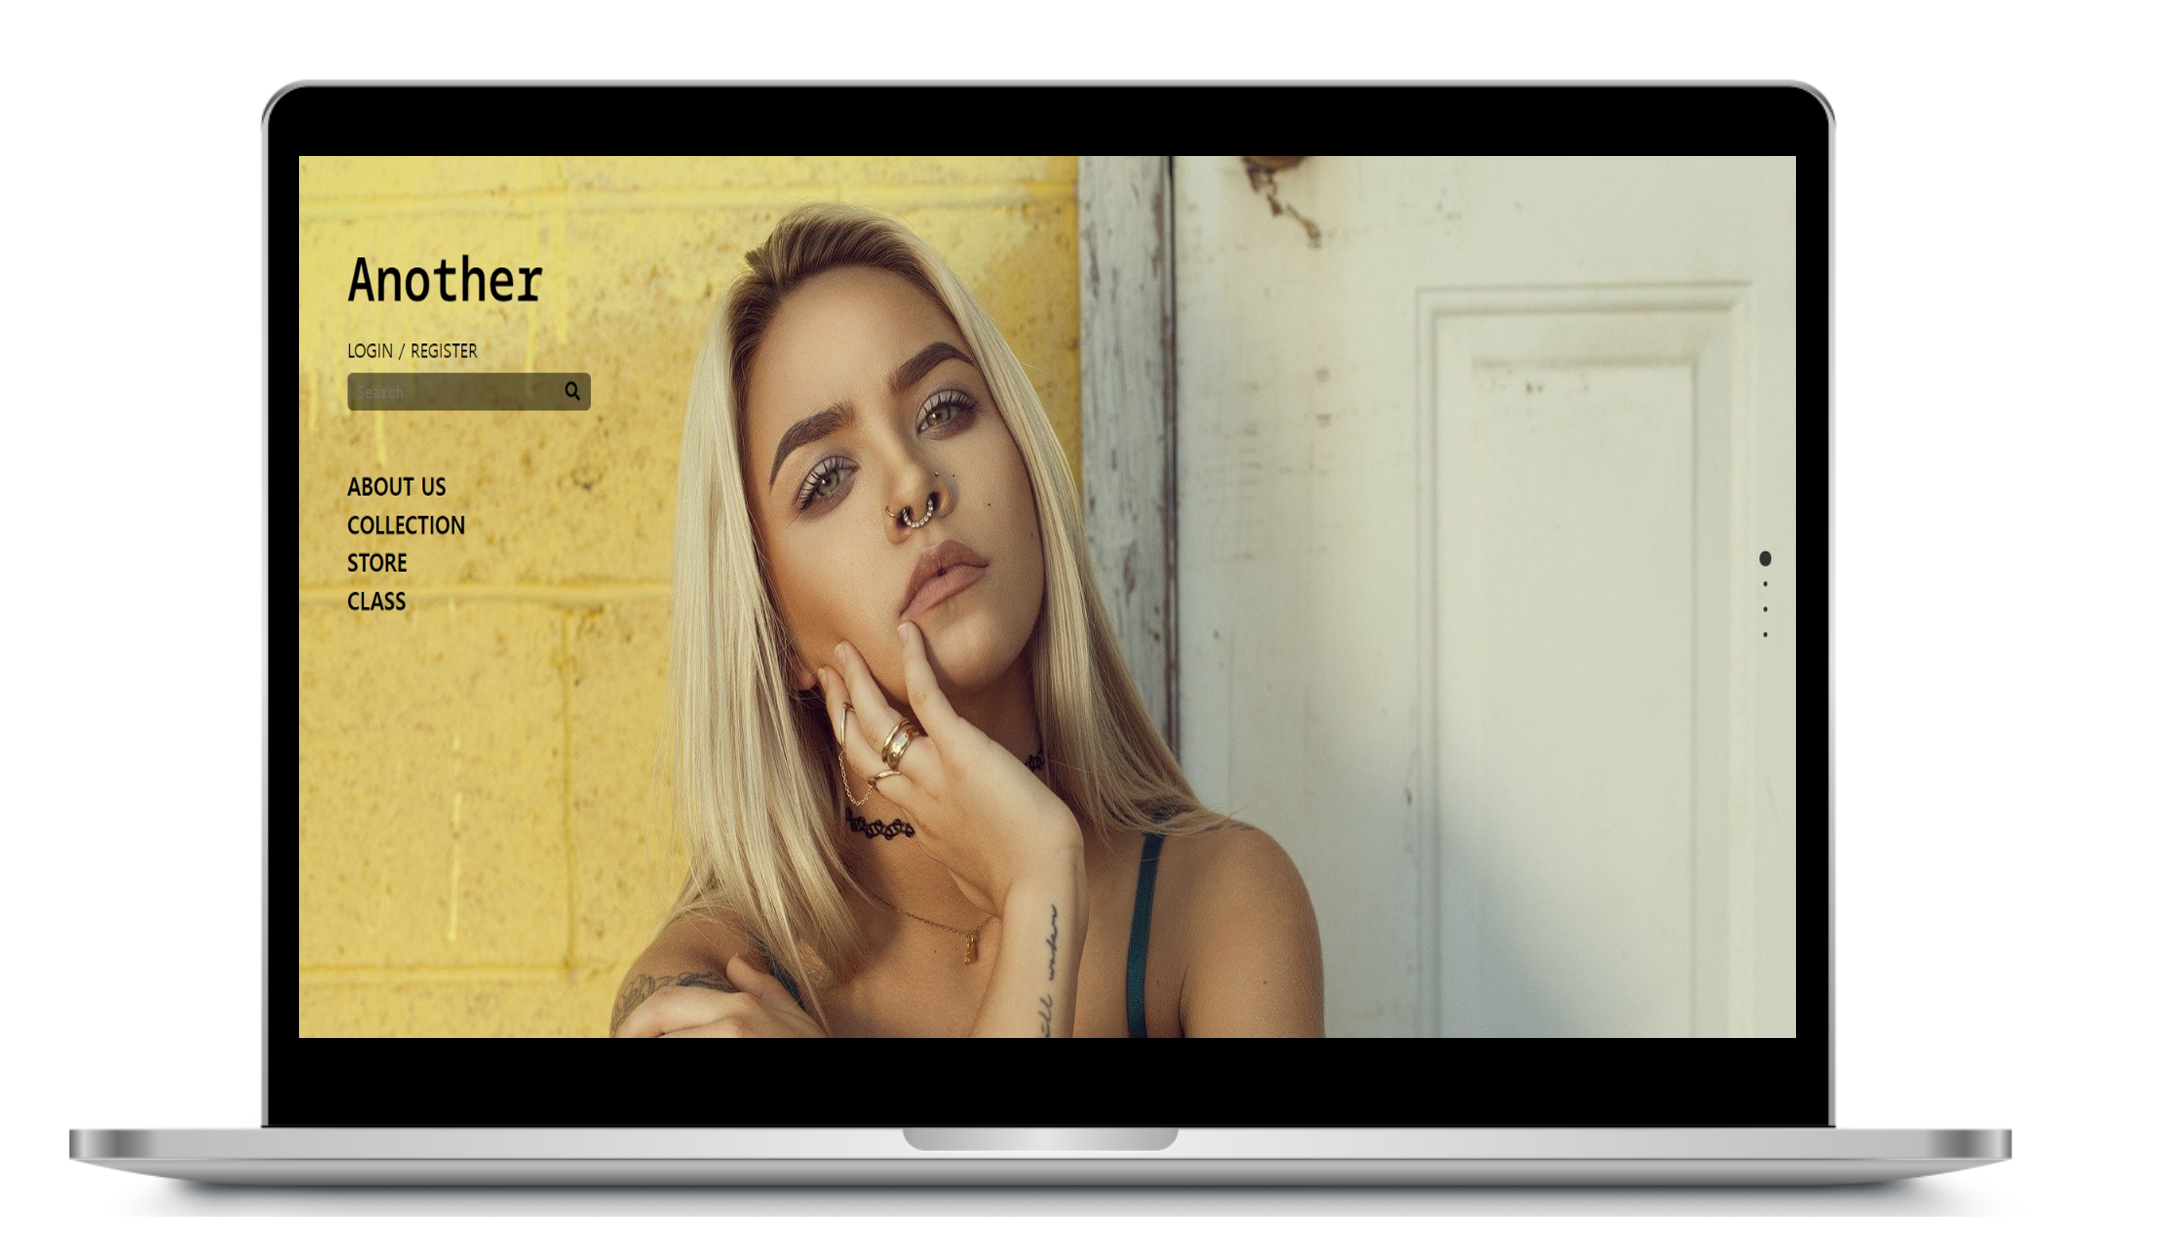
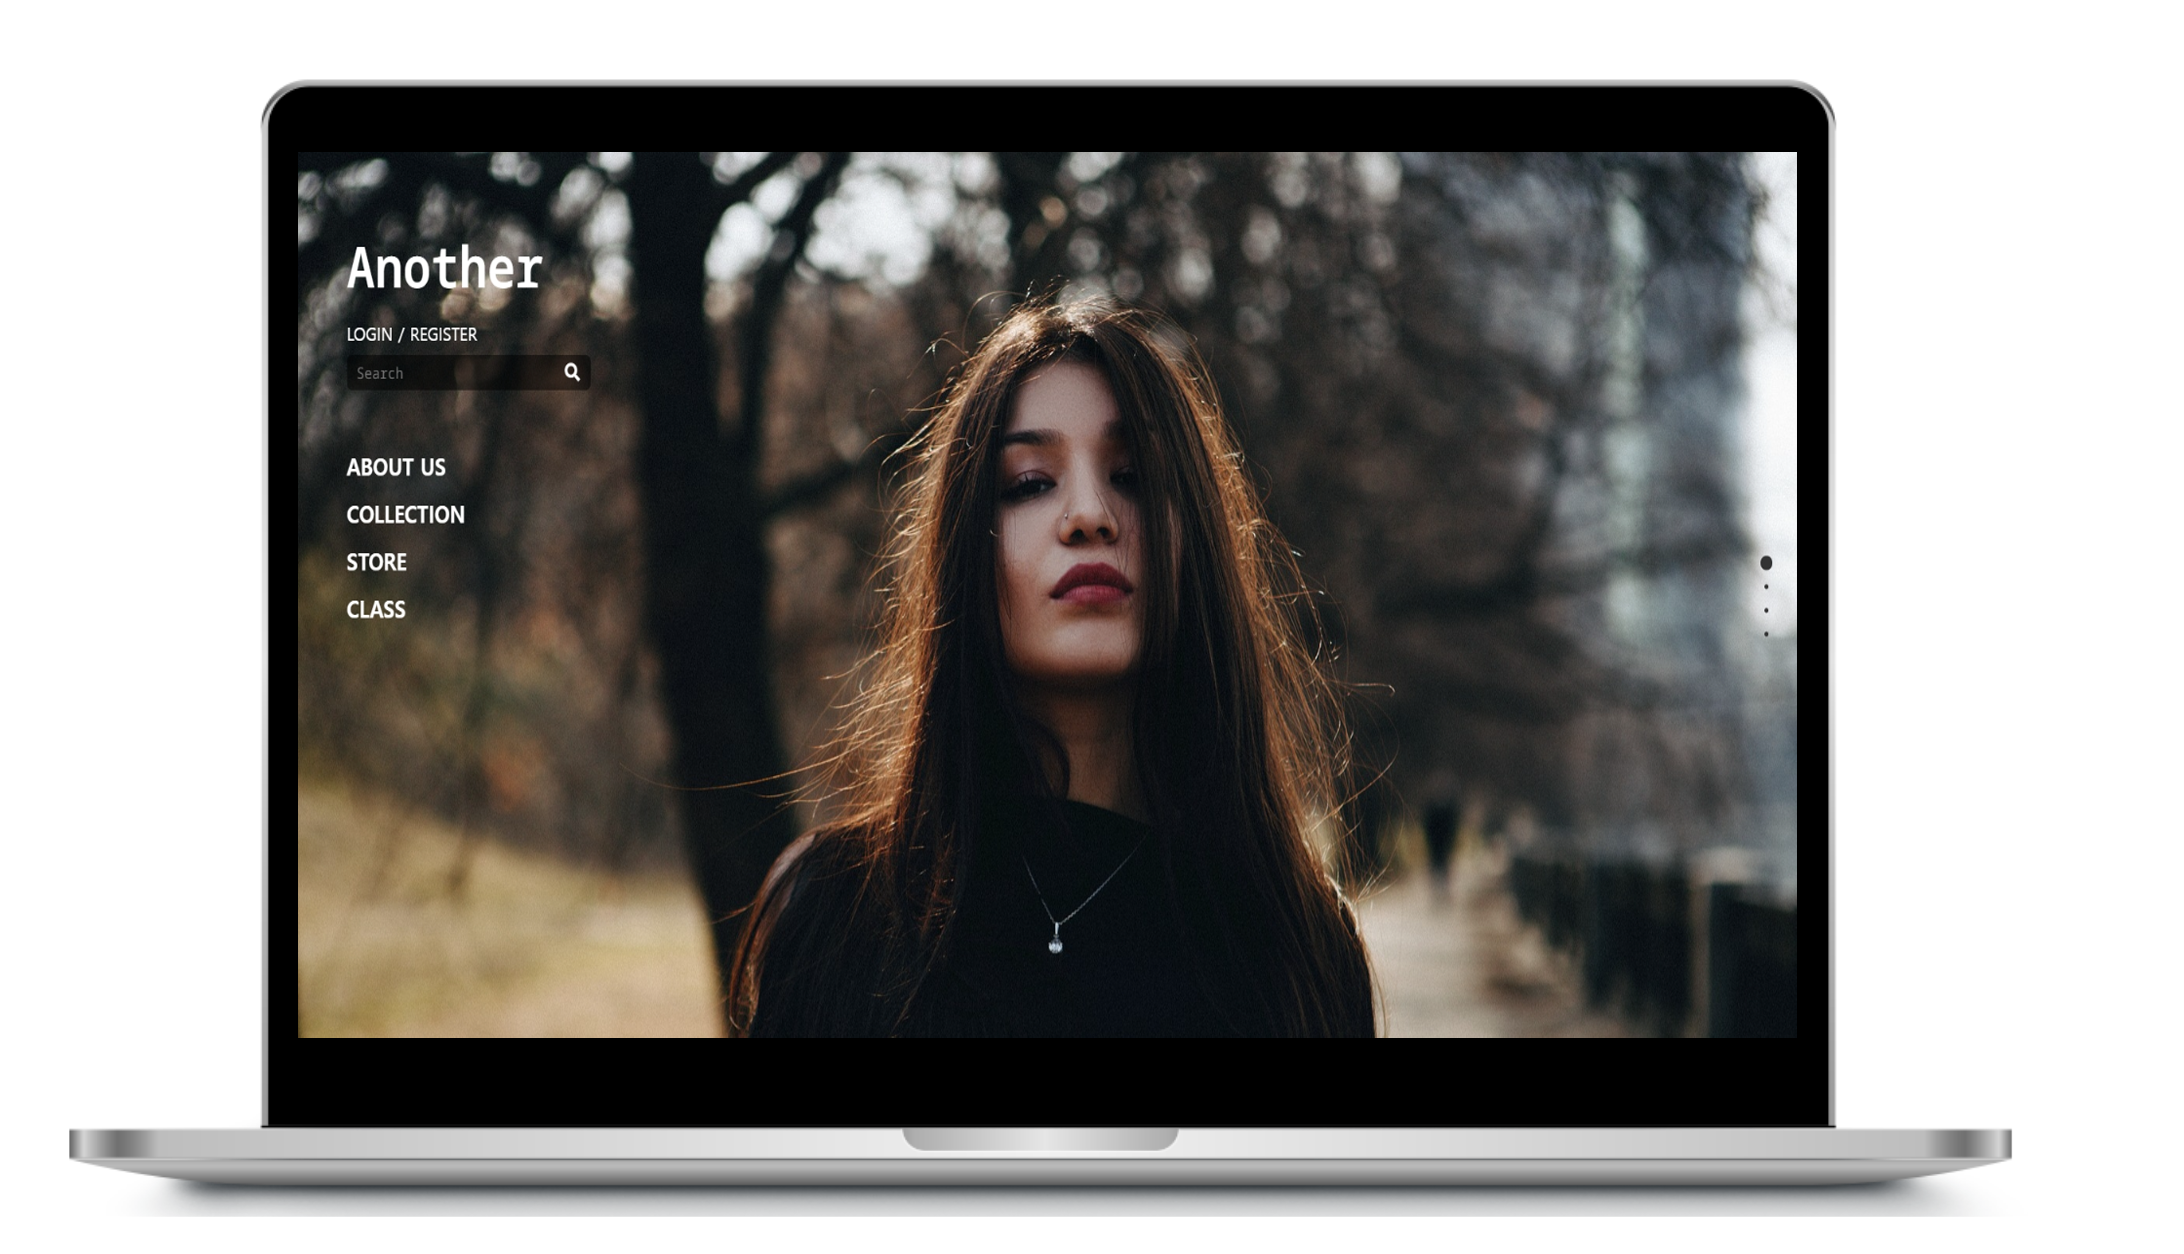
Work update

diff --git a/index.html b/index.html
@@ -263,7 +263,12 @@
           <img class="project__img" src="imgs/projects/another_pc.png" alt="LearnWay">
           <div class="project__description">
             <h3>Another</h3>
-            <span>courtestudios와 090factory를 참조하여 메인화면과 서브페이지를 새롭게 제작하였습니다.</span>
+            <span>courtestudios와 090factory를 참조하여 메인화면과 서브페이지를 새롭게 제작하였습니다.
+            </br>
+            📌 Main </br>
+            📌 About as </br>
+            📌 Store </br>
+            </span>
             <span class="hashtag">#HTML #CSS #Fullpage.js #PC</span>
           </div>
           </a>

diff --git a/css/reset.css b/css/reset.css
@@ -127,3 +127,6 @@ table {
   border-collapse: collapse;
   border-spacing: 0;
 }
+a {
+  text-decoration-line: none;
+}
